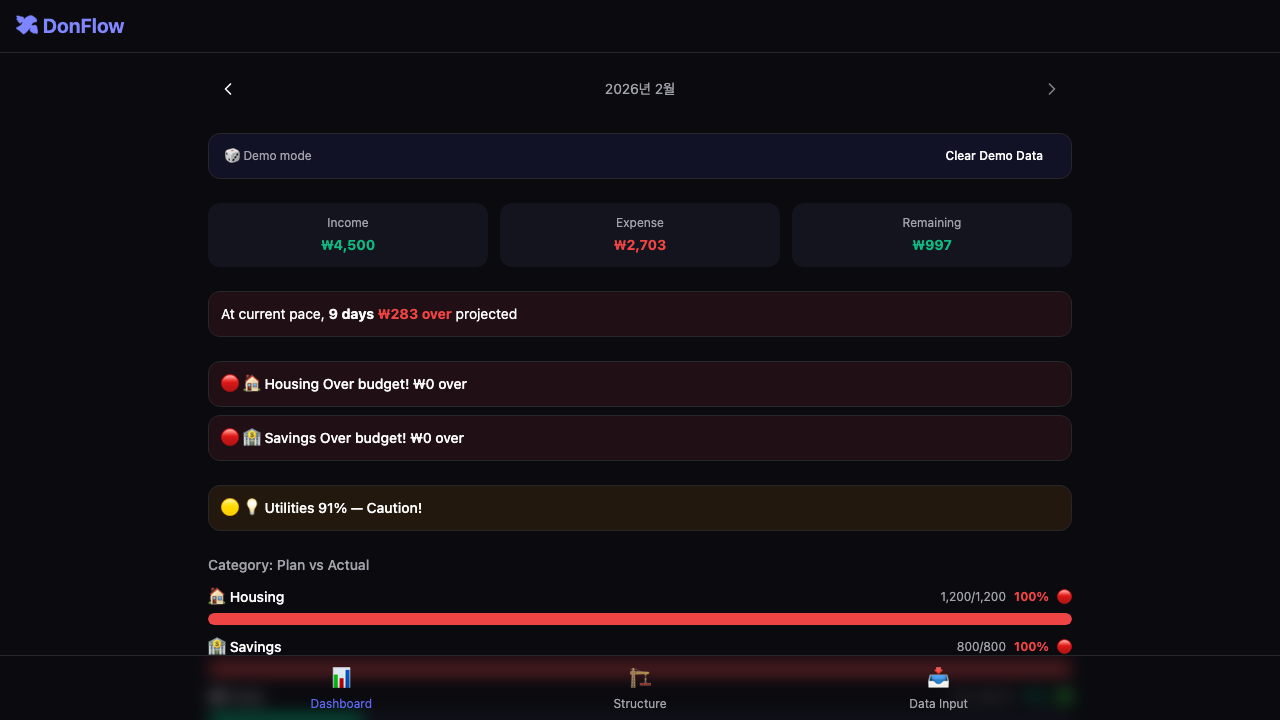
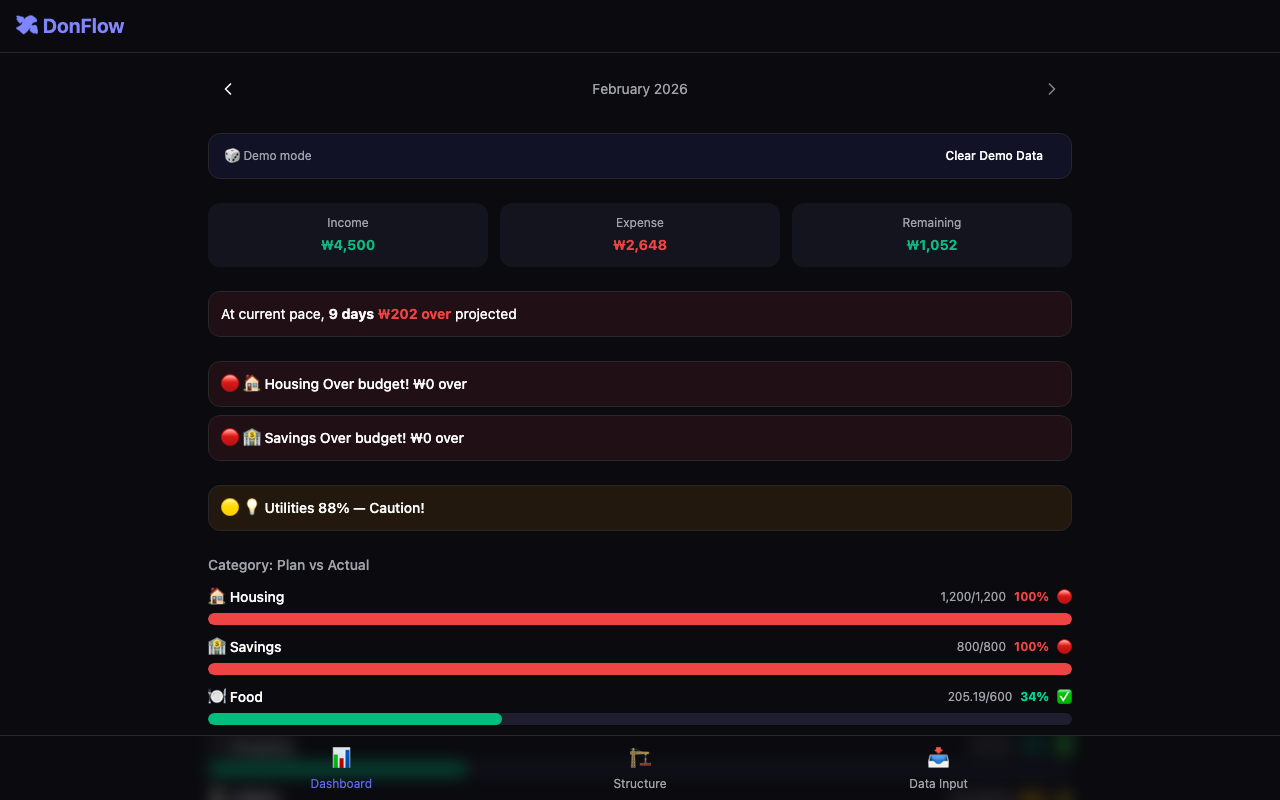
fix: demo data now sets monthlySalary + update dashboard screenshot
- loadDemoData() was not setting appSettings.monthlySalary, causing
  Dashboard to show 'Set your income' even after demo load
- clearDemoData() now cleans up monthlySalary setting
- Updated screenshot to show populated dashboard with plan vs actual bars

diff --git a/src/db/demoData.ts b/src/db/demoData.ts
@@ -203,7 +203,10 @@ export async function loadDemoData(): Promise<void> {
     await db.monthlyIncomes.add({ yearMonth: month, amount: 4500 } as MonthlyIncome)
   }
 
-  // 5. Mark as demo
+  // 5. Set monthly salary so Dashboard recognises setup is complete
+  await db.appSettings.add({ key: 'monthlySalary', value: '4500' })
+
+  // 6. Mark as demo
   await db.appSettings.add({ key: 'isDemoData', value: 'true' })
 }
 
@@ -219,9 +222,11 @@ export async function clearDemoData(): Promise<void> {
   await db.changeAlerts.clear()
   await db.insights.clear()
 
-  // Remove demo flag
-  const setting = await db.appSettings.where('key').equals('isDemoData').first()
-  if (setting?.id) await db.appSettings.delete(setting.id)
+  // Remove demo flag + salary
+  for (const key of ['isDemoData', 'monthlySalary']) {
+    const setting = await db.appSettings.where('key').equals(key).first()
+    if (setting?.id) await db.appSettings.delete(setting.id)
+  }
 
   // Re-seed default categories
   const { seedCategories } = await import('./index')
